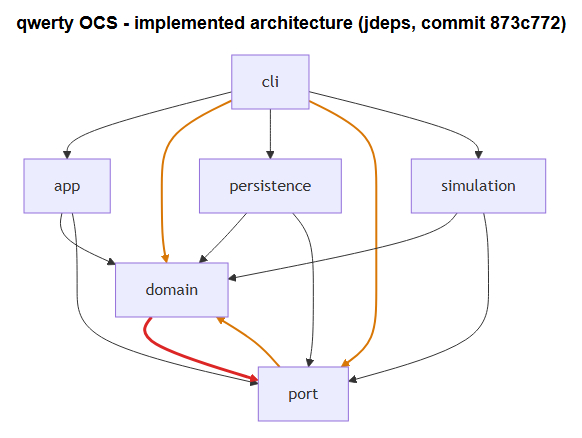
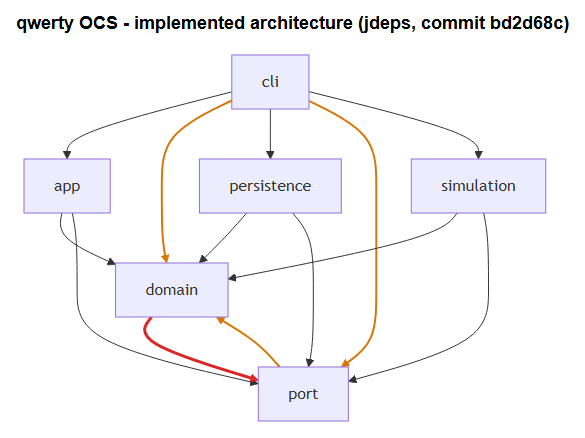
Refresh Part C against team commit bd2d68c
Re-ran jdeps on the latest Phase 2 code and updated quiz answers, evidence, and diagrams.

diff --git a/Lab_Architecture_Quiz_Answers.md b/Lab_Architecture_Quiz_Answers.md
@@ -1,48 +1,19 @@
 # ITCS382 Lab: Intended and Implemented Architecture — Quiz Answers
 
-All commands were run on 15 November 2026 with JDK 25 (`jdeps` 25.0.5) and Maven 3.10.0.
-Each section below is one MyCourses quiz question and can be pasted into its essay box.
+Commands re-checked on 16 November 2026 against team commit `bd2d68c`, with JDK 25 (`jdeps` 25.0.5) and Maven 3.10.0.
+Paste-ready plain-text copies live in `submission/Q1_PartA.txt` … `Q4_AI_Declaration.txt`.
 
 ---
 
 ## Quiz Question 1 — Part A
 
-**jdeps output (Step A2)**
+1. jdeps analyses bytecode, not source code. In a .class file the compiler has already resolved every type that a class uses into a fully qualified name, such as parcelpoint.service.ParcelService, so jdeps can read the real dependencies directly. In a .java file this information is incomplete: classes in the same package need no import, imports can use wildcards (import parcelpoint.domain.*), and a class can be written with its fully qualified name in the code without any import. Only compiling resolves all of these, so mvn package must run first to create target/classes. If I run jdeps before mvn package (I tested this after mvn clean), it prints only "Warning: Path does not exist: target/classes" and no dependency lines. It still exits with code 0, so an empty result means nothing was checked, not that there are no dependencies.
 
-```
-classes -> target\classes
-   parcelpoint          -> parcelpoint.cli
-   parcelpoint          -> parcelpoint.service
-   parcelpoint          -> parcelpoint.storage
-   parcelpoint.cli      -> parcelpoint.domain
-   parcelpoint.cli      -> parcelpoint.service
-   parcelpoint.domain   -> parcelpoint.domain
-   parcelpoint.service  -> parcelpoint.domain
-   parcelpoint.service  -> parcelpoint.storage
-   parcelpoint.storage  -> parcelpoint.domain
-   parcelpoint.storage  -> parcelpoint.storage
-```
+2. These lines mean that a class uses another class in the same package. For example, Parcel uses ParcelSize and ParcelStatus, and H2ParcelRepository implements ParcelRepository. That is collaboration inside one package (its cohesion), not coupling between two packages. The package diagram only draws arrows between different packages, so a line from a package to itself can neither match nor break any arrow of the design. (cli and service have no such line only because each holds a single class.)
 
-**1. Why jdeps reads `target/classes`, and what it prints before `mvn package`.**
-jdeps analyses bytecode, not source code. In a `.class` file the compiler has already resolved every type
-that a class uses into a fully qualified name such as `parcelpoint.service.ParcelService`, so jdeps can read
-the real dependencies directly. In a `.java` file the same information is incomplete: classes in the same
-package need no import, imports can use wildcards (`import parcelpoint.domain.*`), and names can be written
-fully qualified inside the code without any import. Only compiling resolves all of these, so `mvn package`
-must run first to produce `target/classes`. If I run jdeps before `mvn package` (I tested this after
-`mvn clean`), it prints only `Warning: Path does not exist: target/classes` and no dependency lines. It
-still exits with code 0, so an empty result does not mean "no dependencies", it means "nothing was checked".
+3. Yes, the implemented architecture matches the intended architecture exactly. I compared them in both directions. From code to diagram, each of the 8 jdeps arrows (parcelpoint->cli, parcelpoint->service, parcelpoint->storage, cli->domain, cli->service, service->domain, service->storage, storage->domain) is in the package diagram. From diagram to code, the diagram has the same 8 arrows and each one is in the jdeps output. There is no extra arrow, no missing arrow and no cycle: every arrow points down towards domain, and domain depends on no other package.
 
-**2. Why `domain -> domain` and `storage -> storage` do not count.**
-These lines say that a class uses another class in the *same* package. For example, `Parcel` uses
-`ParcelSize` and `ParcelStatus`, and `H2ParcelRepository` implements `ParcelRepository`. That is
-collaboration inside one package (its cohesion), not coupling between two packages. The package diagram
-only draws arrows between different packages, so a self-line can neither match nor break any arrow of the
-design. (`cli` and `service` have no self-line simply because each holds only one class.)
-
-**Mermaid flowchart (Step A4)**
-
-```mermaid
+My Mermaid flowchart of the implemented architecture:
 flowchart TD
     parcelpoint --> cli
     parcelpoint --> service
@@ -52,117 +23,61 @@ flowchart TD
     service --> domain
     service --> storage
     storage --> domain
-```
 
-**3. Does the implemented architecture match the intended architecture?**
-Yes, it matches exactly. I compared in both directions. From code to diagram, each of the 8 jdeps arrows
-(`parcelpoint→cli`, `parcelpoint→service`, `parcelpoint→storage`, `cli→domain`, `cli→service`,
-`service→domain`, `service→storage`, `storage→domain`) appears in the package diagram. From diagram to
-code, the diagram has the same 8 arrows and every one appears in the jdeps output. There is no extra arrow,
-no missing arrow, and no cycle: every arrow points downward towards `domain`, and `domain` depends on
-nothing.
+4. Main is the composition root. It is not part of any layer; its only job is to start the program and wire the layers together. Some class has to choose the concrete H2ParcelRepository and pass it into ParcelService as a ParcelRepository (dependency injection). Doing it in Main keeps that choice in one line in one place, and Main has no business or user-interface logic, so storage details do not leak anywhere else. cli is the presentation layer. In the layered style each layer may talk only to the layer directly below it, so cli must go through service. If cli used storage directly, it would skip the service layer, bypass its rules (locker allocation and fees), and tie the user interface to the database technology. Every change of storage would then ripple into the user interface.
 
-**4. Why `Main → storage` is allowed but `cli → storage` is forbidden.**
-`Main` is the composition root. It is not part of any layer; its only job is to start the program and wire
-the layers together. Something has to choose the concrete `H2ParcelRepository` and pass it into
-`ParcelService` as a `ParcelRepository` (dependency injection), and doing it in `Main` keeps that choice in
-one line in one place. Main has no business or UI logic, so this dependency does not leak storage details
-anywhere else. `cli` is the presentation layer. In the layered style each layer talks only to the layer
-directly below it, so `cli` must go through `service`. If `cli` used `storage` directly it would skip the
-service layer, bypass its rules (locker allocation, fees), and couple the user interface to the database
-technology, so any change of storage would ripple into the UI.
 
 ---
 
 ## Quiz Question 2 — Part B
 
-**5. Prediction before running.**
-`parcelpoint.cli -> parcelpoint.storage`. After `mvn package` and jdeps, this was exactly the one new line
-(the build still succeeded).
+5. I predicted the new line parcelpoint.cli -> parcelpoint.storage. After mvn package (which still showed BUILD SUCCESS) and jdeps, this was exactly the one new line.
 
-**6. Which layered-style rule is broken, and what happens with a file store.**
-It breaks the rule that a layer may only use the layer directly below it (closed layers, no layer
-skipping): `cli → service → storage` became `cli → storage` directly. `ParcelCommandLine` now hard-codes
-the concrete class `H2ParcelRepository` and the path `"./data/parcelpoint"`. If the team moved from H2 to a
-file store, changing `Main` would no longer be enough. `ParcelCommandLine` would also have to be edited,
-recompiled and retested even though nothing in the user interface changed. If someone forgot it, the
-`staff` command would still read the old H2 database while `store` and `pickup` used the new file store, so
-the staff list would show stale or wrong data (or fail if the H2 file was removed).
+6. The change breaks the rule of the layered style that a layer may only use the layer directly below it, so no layer may be skipped. The path cli -> service -> storage became cli -> storage directly. ParcelCommandLine now hard-codes the concrete class H2ParcelRepository and the path "./data/parcelpoint". If the team moved from H2 to a file store, changing Main would no longer be enough. ParcelCommandLine would also have to be edited, recompiled and retested, although nothing in the user interface changed. If someone forgot it, the staff command would keep reading the old H2 database while store and pickup used the new file store. The staff list would then show stale or wrong data, or fail completely once the H2 file was removed.
 
-**7. Why the class view helps more than the package view.**
-The package view only says that *some* class in `cli` uses *some* class in `storage`. The class view names
-both ends: `parcelpoint.cli.ParcelCommandLine -> parcelpoint.storage.H2ParcelRepository`. That tells me
-exactly which file to open and which type reference to remove. It also separates the allowed uses
-(`Main → H2ParcelRepository`, `Main → ParcelRepository`, `ParcelService → ParcelRepository`) from the
-forbidden one, and it shows that the drift uses the concrete class, not the interface. In a real project
-with many classes per package, this saves a manual search through every file.
+7. The package view only says that some class in cli uses some class in storage. The class view names both classes: parcelpoint.cli.ParcelCommandLine -> parcelpoint.storage.H2ParcelRepository. It tells me exactly which file to open and which type to remove. It also separates the allowed uses (Main -> H2ParcelRepository, Main -> ParcelRepository and ParcelService -> ParcelRepository) from the forbidden one, and it shows that the drift uses the concrete class rather than the interface. In a real project with many classes in each package, this saves searching through every file by hand.
 
-**8. Why the `domain ↔ storage` cycle makes both packages harder to change, test and reuse.**
-The cycle creates tight, two-way **coupling**: `domain` depends on `storage` and `storage` depends on
-`domain`, so the two packages can no longer be understood or used separately and in effect become one unit.
-In terms of **connascence**, `Parcel` now has connascence of name and type with `ParcelRepository` (it
-knows its name and the signature of `save`), and `ParcelRepository` already had it with `Parcel`. This
-strong connascence now crosses the package boundary in both directions, while the guideline is to keep
-strong connascence inside a module and weak connascence between modules.
-- *Change:* a change to `ParcelRepository.save` can force a change in `Parcel`, and a change in `Parcel`
-  can force a change in the repository, so ripples go both ways.
-- *Test:* to unit-test a simple rule such as `Parcel.fee` I must now compile against, and possibly stub,
-  the storage package.
-- *Reuse:* I cannot take `domain` into another program (for example a web version) without also taking
-  `storage`.
+8. The cycle creates tight, two-way coupling. domain depends on storage and storage depends on domain, so the two packages can no longer be understood, built or used separately and in effect become one unit. In terms of connascence, Parcel now has connascence of name and type with ParcelRepository (it knows its name and the signature of save), and ParcelRepository already had connascence of name and type with Parcel. This strong connascence now crosses the package boundary in both directions, while the guideline is to keep strong connascence inside a module and only weak connascence between modules.
+Change: a change to ParcelRepository.save can force a change in Parcel, and a change in Parcel can force a change in the repository, so ripples run both ways.
+Test: to unit-test a simple rule such as Parcel.fee, I now have to compile against, and possibly stub, the storage package.
+Reuse: I cannot take domain into another program, such as a web version, without also taking storage with it.
+It also lowers the cohesion of Parcel, which now mixes business rules with persistence.
 
-It also lowers the **cohesion** of `Parcel`, which now mixes business rules with persistence.
+9. The compiler only checks that the code is valid Java: every type exists on the classpath, is accessible, and is used with the right signature. H2ParcelRepository and ParcelRepository are public classes on the same classpath, so any class in any package may use them. Java has no concept of layers. The package diagram lives in a design document that the compiler never reads, and Java's access modifiers (public or package-private) cannot express a rule like "public, but only for service and Main". The program also still ran correctly, so tests would not fail either. A team therefore needs a separate, automated architecture check (a fitness function) such as jdeps, run on every build or in CI. It compares the real dependencies with the allowed arrows and catches a one-line shortcut as soon as it appears, before such shortcuts pile up. This kind of change is easy to miss in code review.
 
-**9. Why the compiler accepted both changes, and why a separate check is needed.**
-The compiler only checks that the code is valid Java: every type exists on the classpath, is accessible,
-and is used with the right signature. `H2ParcelRepository` and `ParcelRepository` are `public` classes on
-the same classpath, so any class in any package is allowed to use them. Java has no concept of "layers".
-The package diagram lives in a design document that the compiler never reads, and Java's visibility
-modifiers (`public` / package-private) cannot say "public, but only to `service` and `Main`". The program
-also still ran correctly, so tests would not fail either. A team therefore needs a separate, automated
-architecture check (a fitness function) such as jdeps, run on every build or in CI. It compares the real
-dependencies against the allowed arrows and catches one-line shortcuts as soon as they appear, before they
-pile up. This kind of change is easy to miss in code review.
 
 ---
 
 ## Quiz Question 3 — Part C
 
-**Team:** qwerty — repository `ICT-Mahidol/2026-ITCS382-Sec1-Gemini8`, branch `main`, commit `873c772`
-(latest at the time of the check). Root package: `ocs`. `mvn package` gives BUILD SUCCESS with 53 tests, 0
-failures. The code implements all four selected use cases (UC01, UC07, UC09, UC04). The evidence section of
-`qwerty_D4_Report.md` still says "To be added", but the code under `ocs/` is complete enough to check.
+Team name: qwerty (repository ICT-Mahidol/2026-ITCS382-Sec1-Gemini8, branch master, commit bd2d68c, checked on 16 November 2026)
 
-**10. jdeps output and Mermaid flowchart**
+The code implements all four selected use cases (UC01, UC07, UC09 and UC04). mvn package shows BUILD SUCCESS. The root package is ocs. The package diagram in qwerty_D4_Design.md was updated since the previous check (H2 and the .mv.db file are now drawn as notes, not Java packages), but the ocs.* package arrows are the same.
 
-```
+10. jdeps output of Step C2:
+
 > jdeps -verbose:package -filter:none -e "ocs.*" target/classes
 classes -> target\classes
-   ocs.app          -> ocs.app
-   ocs.app          -> ocs.domain
-   ocs.app          -> ocs.port
-   ocs.cli          -> ocs.app
-   ocs.cli          -> ocs.cli
-   ocs.cli          -> ocs.domain
-   ocs.cli          -> ocs.persistence
-   ocs.cli          -> ocs.port
-   ocs.cli          -> ocs.simulation
-   ocs.domain       -> ocs.domain
-   ocs.domain       -> ocs.port
-   ocs.persistence  -> ocs.domain
-   ocs.persistence  -> ocs.persistence
-   ocs.persistence  -> ocs.port
-   ocs.port         -> ocs.domain
-   ocs.simulation   -> ocs.domain
-   ocs.simulation   -> ocs.port
-```
+   ocs.app          -> ocs.domain         classes
+   ocs.app          -> ocs.port           classes
+   ocs.cli          -> ocs.app            classes
+   ocs.cli          -> ocs.cli            classes
+   ocs.cli          -> ocs.domain         classes
+   ocs.cli          -> ocs.persistence    classes
+   ocs.cli          -> ocs.port           classes
+   ocs.cli          -> ocs.simulation     classes
+   ocs.domain       -> ocs.domain         classes
+   ocs.domain       -> ocs.port           classes
+   ocs.persistence  -> ocs.domain         classes
+   ocs.persistence  -> ocs.persistence    classes
+   ocs.persistence  -> ocs.port           classes
+   ocs.port         -> ocs.domain         classes
+   ocs.simulation   -> ocs.domain         classes
+   ocs.simulation   -> ocs.port           classes
 
-After I skip the first line and the 4 self-lines, 13 arrows remain. No class sits directly in the root
-package `ocs` (`OcsMain` is in `ocs.cli`), so every node drops the `ocs.` prefix.
+After skipping the first line and the lines from a package to itself, 13 arrows remain. No class sits directly in the root package ocs (OcsMain is in ocs.cli), so every node drops the "ocs." prefix.
 
-Implemented architecture (from jdeps):
-
-```mermaid
+My Mermaid flowchart (implemented architecture):
 flowchart TD
     cli --> app
     cli --> domain
@@ -177,13 +92,8 @@ flowchart TD
     port --> domain
     simulation --> domain
     simulation --> port
-```
 
-For comparison, these are the internal arrows of the intended architecture as I read them from the package
-diagram in `qwerty_D4_Design.md` (`img/qwerty_D4_PackageDiagram.svg`). The arrows to the external JDBC,
-H2 and Local Storage packages are left out because `-e "ocs.*"` hides them.
-
-```mermaid
+These are the internal arrows of the intended architecture, as I read them from the team's package diagram (qwerty_D4_PackageDiagram.svg in qwerty_D4_Design.md). The external JDBC package and the H2/.mv.db notes are left out because -e "ocs.*" hides them.
 flowchart TD
     cli --> app
     cli --> persistence
@@ -194,30 +104,46 @@ flowchart TD
     persistence --> port
     simulation --> domain
     simulation --> port
-```
 
-**11. Differences and cycles**
+11. From code to diagram, 9 of the 13 jdeps arrows are in the diagram and 4 are not. From diagram to code, all 9 arrows of the diagram are in the jdeps output. There is 1 cycle. I found the class behind each arrow with the class view of Step B2 (jdeps -verbose:class -filter:none -e "ocs.port.*" target/classes, and the same with "ocs.domain.*").
 
-Code to diagram: 9 of the 13 jdeps arrows appear in the diagram and 4 do not. Diagram to code: all 9
-diagram arrows appear in jdeps. There is 1 cycle. I found each causing class with the class view of Step
-B2 (`jdeps -verbose:class -filter:none -e "ocs.port.*"` and `-e "ocs.domain.*"`).
+(a) What I found: an arrow in the code that the diagram does not show.
+Where: cli -> domain. The classes are ScienceProgramCommandLine -> SciencePlan, ObservingProgram, TargetCoordinates, InstrumentSettings and EvaluationResult; StatusEnquiryCommandLine -> StatusReport, Telemetry and QualityReport; CommandSequenceCommandLine -> ObservingSequence and SequenceState; ObservingQueueCommandLine -> QueueRecommendation; and OcsMain -> Scheduler, ResourceAllocator, ProgramValidator, HealthMonitor, MotionCoordinator and more.
+What I would fix: the design. The dependency is really needed. The services return domain objects that the command lines must display, the team's own class diagram already has ScienceProgramCommandLine -> SciencePlan, and OcsMain must construct the domain services. Add the arrow cli -> domain (ParcelPoint has the same arrow).
 
-| What you found | Where | What you would fix |
-|---|---|---|
-| An arrow in the code that the diagram does not show | `cli → domain`. Classes: `ScienceProgramCommandLine → SciencePlan, ObservingProgram, TargetCoordinates, InstrumentSettings, EvaluationResult`; `StatusEnquiryCommandLine → StatusReport, Telemetry, QualityReport`; `CommandSequenceCommandLine → ObservingSequence, SequenceState`; `ObservingQueueCommandLine → QueueRecommendation`; and `OcsMain → Scheduler, ResourceAllocator, ProgramValidator, HealthMonitor, MotionCoordinator, ...` | **The design.** The dependency is really needed: the services return domain objects that the CLI must display, the team's own class diagram already has `ScienceProgramCommandLine → SciencePlan`, and `OcsMain` is the composition root that must construct the domain services. Add the arrow `cli → domain` (ParcelPoint has the same `cli → domain` arrow). |
-| An arrow in the code that the diagram does not show | `cli → port`. Class: only `ocs.cli.OcsMain` → all nine port interfaces (`ProgramRepository`, `QueueRepository`, `SequenceRepository`, `EventLog`, `SimulatorPort`, `ObservatoryContextPort`, `TelescopePort`, `EnclosurePort`, `InstrumentPort`) | **The design.** `OcsMain` is the composition root. It wires adapters to services through the port types, which is exactly what the report's Ports and Adapters section describes. It is the same allowed case as ParcelPoint's `Main → storage.ParcelRepository`. None of the four `*CommandLine` classes use a port, so it is not a shortcut. Add `cli → port` to the diagram (and note that only `OcsMain` may use it). |
-| An arrow in the code that the diagram does not show | `port → domain`. Classes: every port interface uses domain value types in its signatures, e.g. `TelescopePort → TargetCoordinates, Telemetry`; `InstrumentPort → InstrumentSettings, RawData, Telemetry`; `ProgramRepository → SciencePlan, ObservingProgram`; `SequenceRepository → ObservingSequence, QualityReport, RawData` | **The design.** A port has to describe its operations in the domain's own types. That is the correct direction in Ports and Adapters, and the only alternative would be passing primitives, which would raise connascence of position. Add `port → domain` to the diagram. |
-| An arrow in the code that the diagram does not show | `domain → port`. Classes: `HealthMonitor → TelescopePort, EnclosurePort, InstrumentPort`; `MotionCoordinator → TelescopePort, EnclosurePort`; `SubsystemTelemetryMonitor → TelescopePort, EnclosurePort, InstrumentPort` | **The code.** This arrow closes the cycle below, and it goes against the report's own rule that "Domain types do not import application or adapter packages". These three classes coordinate devices for a use case, which is application work, not a domain rule. |
-| An arrow in the diagram that the code does not have | None. All 9 internal arrows of the diagram (`cli→app`, `cli→persistence`, `cli→simulation`, `app→domain`, `app→port`, `persistence→domain`, `persistence→port`, `simulation→domain`, `simulation→port`) are in the jdeps output. | No fix needed. (Outside the `ocs.*` filter, a separate jdeps run confirms `persistence → java.sql`. There is no compile-time `persistence → org.h2` dependency because the H2 driver is loaded at runtime from the JDBC URL. The `<<use>>` arrow to H2 is still correct as a runtime dependency.) |
-| A cycle between packages | `domain ↔ port`: `domain → port` (the three classes above) and `port → domain` (port signatures use domain types) | **The code.** Break it by removing `domain → port`: move `HealthMonitor`, `MotionCoordinator` and `SubsystemTelemetryMonitor` from `ocs.domain` to `ocs.app`, next to the services that use them (`SequenceService`, `StatusService`). No other domain class refers to them. I checked this on a scratch copy of the repo: after the move `mvn package` passed all tests, and jdeps no longer printed `ocs.domain -> ocs.port`, so `domain` depends on nothing and the cycle is gone. The arrows that remain (`app → port`, `app → domain`, `port → domain`) are all in the corrected diagram. |
+(b) What I found: an arrow in the code that the diagram does not show.
+Where: cli -> port. The only class is ocs.cli.OcsMain, which uses all nine port interfaces (ProgramRepository, QueueRepository, SequenceRepository, EventLog, SimulatorPort, ObservatoryContextPort, TelescopePort, EnclosurePort and InstrumentPort).
+What I would fix: the design. OcsMain is the composition root. It wires the adapters to the services through the port types, which is exactly what the Ports and Adapters section of the report describes. This is the same allowed case as ParcelPoint's Main -> storage.ParcelRepository. None of the four command-line classes uses a port, so it is not a shortcut. Add cli -> port to the diagram, with a note that only OcsMain may use it.
 
-After these fixes the corrected package diagram would add `cli → domain`, `cli → port` and `port → domain`,
-and the code would drop `domain → port`. Code and design would then match with 12 arrows and no cycle.
+(c) What I found: an arrow in the code that the diagram does not show.
+Where: port -> domain. Every port interface uses domain value types in its method signatures, for example TelescopePort -> TargetCoordinates and Telemetry; InstrumentPort -> InstrumentSettings, RawData and Telemetry; ProgramRepository -> SciencePlan and ObservingProgram; SequenceRepository -> ObservingSequence, QualityReport and RawData.
+What I would fix: the design. A port must describe its operations in the domain's own types, which is the correct direction in Ports and Adapters. The alternative, passing lists of primitives, would increase connascence of position. Add port -> domain to the diagram.
+
+(d) What I found: an arrow in the code that the diagram does not show.
+Where: domain -> port. The classes are HealthMonitor -> TelescopePort, EnclosurePort and InstrumentPort; MotionCoordinator -> TelescopePort and EnclosurePort; SubsystemTelemetryMonitor -> TelescopePort, EnclosurePort and InstrumentPort.
+What I would fix: the code. This arrow creates the cycle described in (f), and it goes against the report's own rule that domain types do not import application or adapter packages. These three classes coordinate devices for a use case, which is application work rather than a domain rule.
+
+(e) What I found: an arrow in the diagram that the code does not have.
+Where: none. All 9 internal arrows of the diagram (cli->app, cli->persistence, cli->simulation, app->domain, app->port, persistence->domain, persistence->port, simulation->domain and simulation->port) are in the jdeps output.
+What I would fix: nothing. As an extra check outside the ocs.* filter, a separate jdeps run confirms persistence -> java.sql. There is no compile-time persistence -> org.h2 dependency, because the H2 driver is loaded at runtime from the JDBC URL. The current diagram draws H2 and the .mv.db file as notes rather than Java packages, which matches that.
+
+(f) What I found: a cycle between packages.
+Where: domain <-> port. The arrow domain -> port comes from the three classes in (d), and the arrow port -> domain comes from the port signatures in (c).
+What I would fix: the code. I would break the cycle by removing domain -> port: move HealthMonitor, MotionCoordinator and SubsystemTelemetryMonitor from ocs.domain to ocs.app, next to the services that use them (SequenceService and StatusService). No other domain class refers to them. After that move, domain depends on no other package and the cycle is gone. The arrows that remain (app -> port, app -> domain and port -> domain) are all allowed in the corrected diagram.
+
+After these fixes, the diagram gains cli -> domain, cli -> port and port -> domain, and the code loses domain -> port. Code and design then match with 12 arrows and no cycle.
+
 
 ---
 
 ## Quiz Question 4 — AI usage declaration
 
-| Tool | Exact model | Date | What I used it for | How I checked it |
-|---|---|---|---|---|
-| Cursor (Agent mode) | Claude Opus 5.5 (Anthropic) | 15 November 2026 | Running the lab steps (mvn package, jdeps package and class views) for Parts A–C; drafting the explanations for questions 1–11; reading the team package diagram; testing the cycle fix on a scratch copy | I re-ran every jdeps command myself and compared each line with the outputs pasted above and with the outputs printed in the lab sheet (Steps A2, B1, B2, B3, B4). I checked the "before mvn package" answer by running jdeps after `mvn clean`. I traced every arrow of `qwerty_D4_PackageDiagram.svg` by hand against the 13 jdeps arrows in both directions. I checked each causing class from the class view by opening the Java file and finding the import (e.g. `import ocs.port.TelescopePort;` in `MotionCoordinator.java`). I checked the cycle fix by building and testing it. I checked the explanations against the lecture terms (layered style, coupling, cohesion, connascence). |
+Tool: Cursor (Agent mode)
+Exact model: Claude Opus 5.5 (Anthropic)
+Date of use: 15 November 2026 and 16 November 2026
+
+What I used it for: running the lab steps (mvn package, and the jdeps package and class views) for Parts A, B and C; drafting the explanations for questions 1 to 11; reading my team's package diagram on the latest commit (bd2d68c); comparing the intended and implemented architectures; rendering the Mermaid flowcharts as images.
+
+How I checked each answer:
+- Questions 1 to 9 (Parts A and B): I compared every jdeps line with the outputs printed in the lab sheet for Steps A2, B1, B2, B3 and B4, and they matched. I checked the answer about running jdeps before mvn package by running jdeps after mvn clean, which printed "Warning: Path does not exist: target/classes". I checked the explanations against the lecture terms: layered style, coupling, cohesion and connascence.
+- Questions 10 and 11 (Part C): On 16 November 2026 I pulled the latest team commit bd2d68c, rebuilt ocs with mvn package, and re-ran jdeps. I traced every arrow of qwerty_D4_PackageDiagram.svg by hand and compared it with the 13 jdeps arrows in both directions. For each class named by the class view, I opened the Java file and found the import, for example import ocs.port.TelescopePort; in MotionCoordinator.java. I checked that the four extra arrows and the domain/port cycle are still present on this commit.

diff --git a/README.md b/README.md
@@ -6,7 +6,7 @@ Individual lab work comparing package diagrams (intended architecture) with the 
 - `submission/` holds the quiz answers (`Q1`–`Q4`), the jdeps evidence and the rendered Mermaid diagrams.
 - `Lab_Architecture_Quiz_Answers.md` is the same answers in one Markdown file.
 
-Part C checks the Project Phase 2 code of team qwerty ([ICT-Mahidol/2026-ITCS382-Sec1-Gemini8](https://github.com/ICT-Mahidol/2026-ITCS382-Sec1-Gemini8)), which is not included here.
+Part C checks the Project Phase 2 code of team qwerty ([ICT-Mahidol/2026-ITCS382-Sec1-Gemini8](https://github.com/ICT-Mahidol/2026-ITCS382-Sec1-Gemini8)), commit `bd2d68c` (16 Nov 2026). That team repo is not included here.
 
 To reproduce Part A:
 
